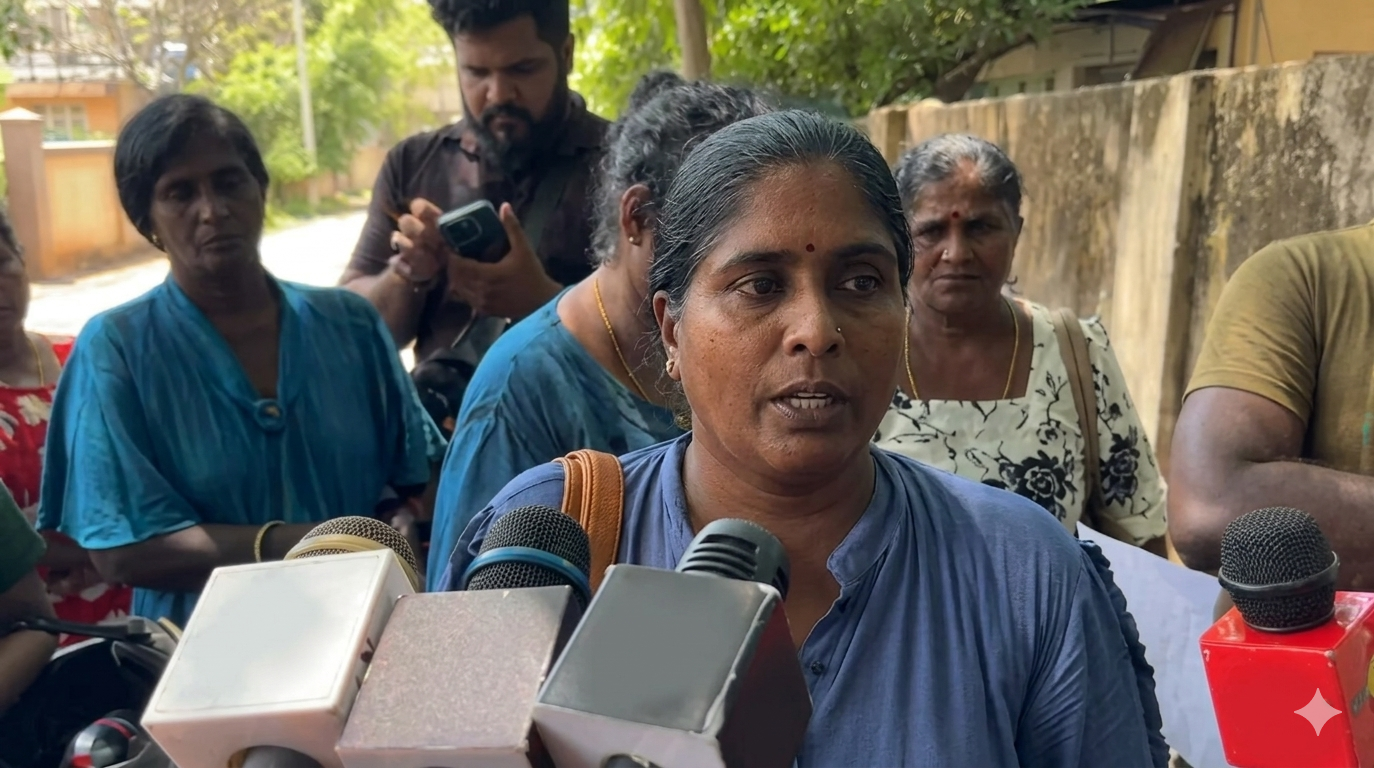
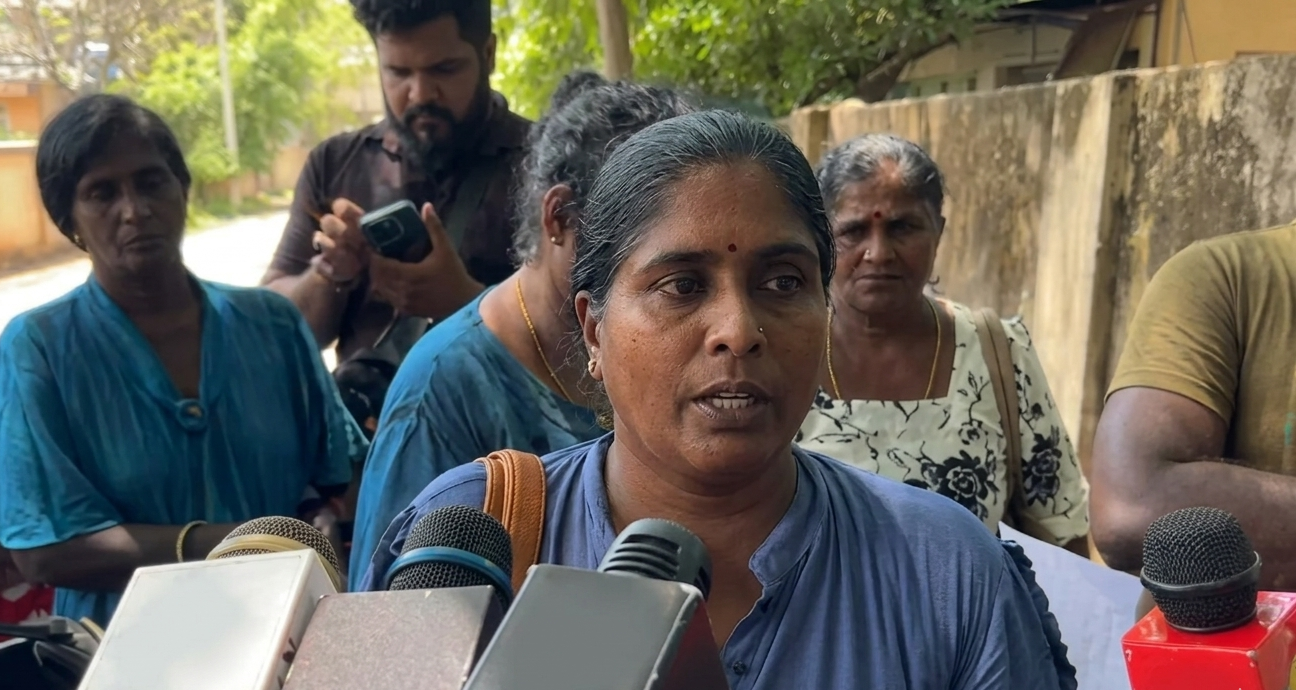
Auto Update: Publish new content

diff --git a/news_data.js b/news_data.js
@@ -1,5 +1,17 @@
 window.newsData = [
     {
+        id: "2026-04-10(2)",
+        date: "2026-04-10",
+        title: "ත්රිකුණාමලය රෝහලේදී බිළිඳෙකු මියයෑමේ සිද්ධියක් සම්බන්ධයෙන් පවුලේ අයගෙන් චෝදනා",
+        image: "news/2026-04-10(2)/image.png",
+        content: `ත්රිකුණාමලය රෝහලේදී බිළිඳෙකු මියයෑමේ සිද්ධියක් සම්බන්ධයෙන් පවුලේ අයගෙන් චෝදනා
+
+2026-04-10 වන දින ත්රිකුණාමලය මහා රෝහලට ප්රසූතිය සඳහා ඇතුළත් කළ මවකට ප්රතිකාර ලබාදීමේදී සිදුවූ ප්රමාදයක් හේතුවෙන් තම බිළිඳා මියගිය බවට මියගිය බිළිඳාගේ ඥාතීන් පිරිසක් රෝහල් පරිපාලනයට එරෙහිව බරපතළ චෝදනා එල්ල කරමින් ඇති අතර රජයේ වෛද්ය නිලධාරින්ගේ සංගමය විසින් පවත්වාගෙන යනු ලබන වැඩවර්ජනය හේතුවේන් මෙම බිළිඳාගේ මරණය සිදු වී ඇති බවට වාර්තා වී ඇත.
+
+ප්රසූත වේදනාව හේතුවෙන් අදාළ මව ත්රිකුණාමලය රෝහලට ඇතුළත් කර ඇති අතර, එහිදී රෝහල් කාර්ය මණ්ඩලය නියමිත වේලාවට අවශ්ය ප්රතිකාර ලබාදීමට අපොහොසත් වී ඇති බවත්, වෛද්ය නොසලකා හැරීම සහ ප්රතිකාර කිරීමේදී සිදුවූ කාලය ප්රමාද වීම බිළිඳාගේ මරණයට සෘජුවම බලපා ඇති බව වැඩිදුරටත් අදහස් දක්වමින් ඥාතීන් ප්රකාශකර ඇත
+`
+    },
+    {
         id: "2026-04-10(1)",
         date: "2026-04-10",
         title: "ත්රිකුණාමලය රෝහලේදී බිළිඳෙකු මියයෑමේ සිද්ධියක් සම්බන්ධයෙන් පවුලේ අයගෙන් චෝදනා",